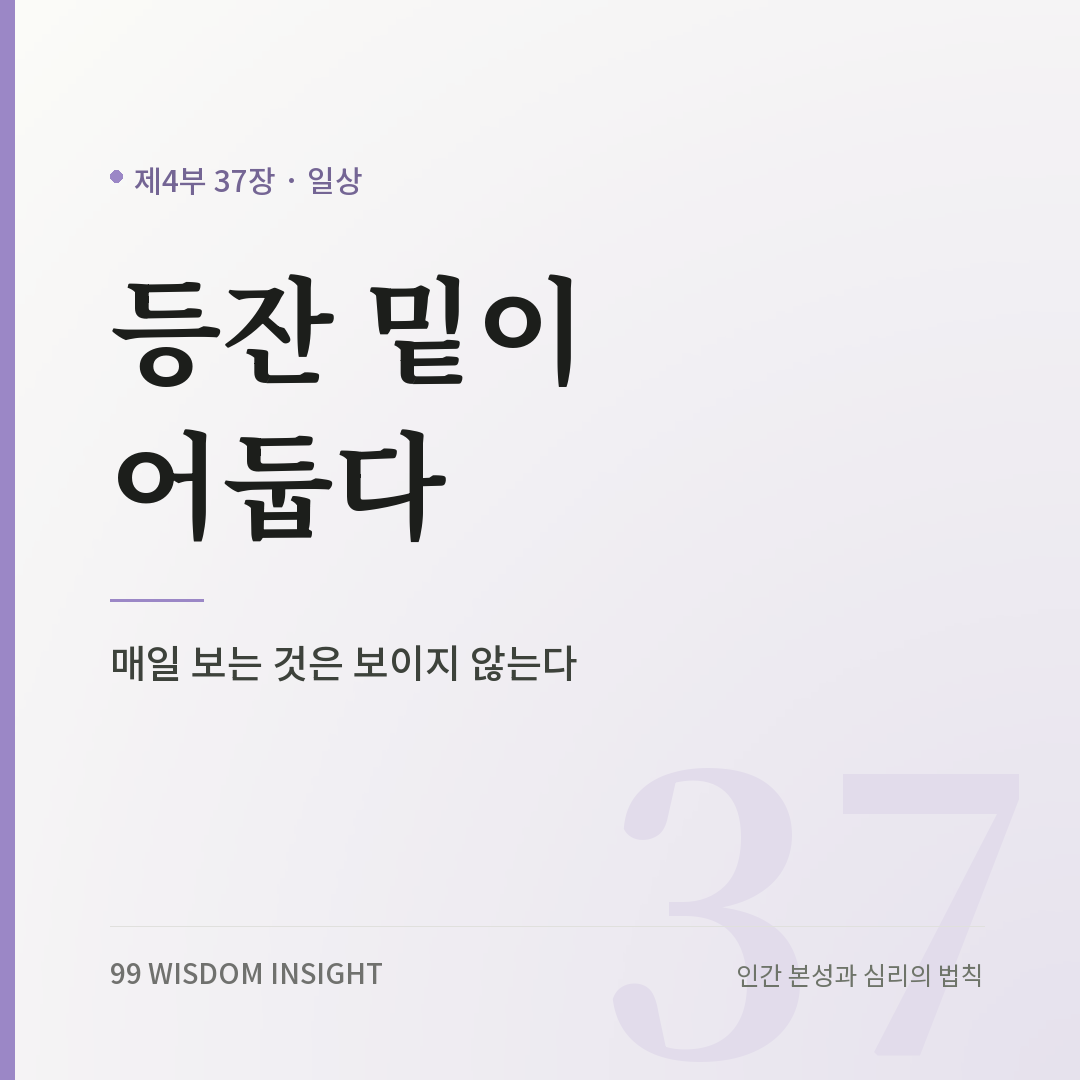
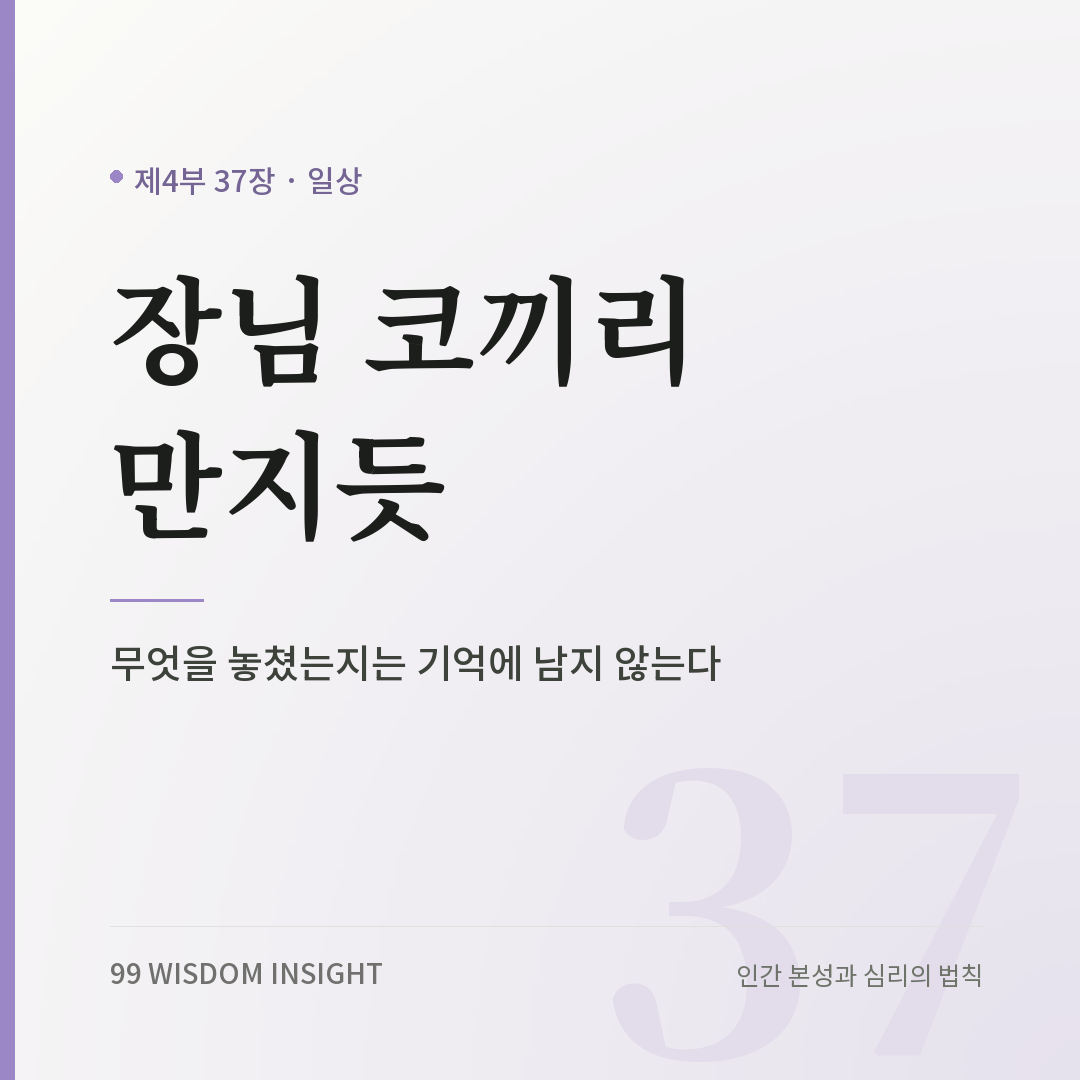
37장 속담 교체: 등잔 밑이 어둡다 → 장님 코끼리 만지듯
81장과 속담이 겹쳐 있었다. 37장의 인지적 사각지대 내용은
등잔 밑보다 이 비유에 더 정확히 맞고, 81장은 파랑새와 행복을
온전히 다룰 수 있게 된다. 원전에서 그들이 합치지 못하고
싸웠다는 사실과, 이야기 안에 전체를 보는 왕이 있다는 구조를
논지의 출발점으로 삼았다. 칼럼 anchor와 카드도 함께 맞췄다.

diff --git a/data/chapters/37.md b/data/chapters/37.md
@@ -1,124 +1,142 @@
 ---
 chapter_id: 37
 part_id: 4
-title: "등잔 밑이 어둡다"
-subtitle: "빛이 만든 그림자, 인지적 사각지대와 익숙함의 함정"
+title: "장님 코끼리 만지듯"
+subtitle: "부분을 쥐고 전체를 확신하는 구조, 선택적 지각과 집단 지성의 조건"
 source: book.html
 extracted_at: 2026-09-22
 ---
 
+## 그들은 합치지 않았다
+
+이 비유는 대개 이렇게 정리된다. 각자 다리와 귀와 꼬리를 만지고 저마다 다른 말을 했으니, 그 말들을 모으면 코끼리가 된다는 것이다.
+
+원전의 결말은 다르다.
+
+가장 이른 형태는 불교 경전에 있다. 팔리어로 전하는 한 경에서, 부처는 서로 다른 교파의 수행자들이 각자 자기 견해만 옳다며 다투는 것을 보고 이 이야기를 꺼낸다.
+
+거기서 사람들은 자기가 만진 것이 코끼리라고 주장하다가 끝내 주먹다짐을 한다. 합치는 장면이 없다.
+
+비유의 요점도 다르다. 부분만 안다는 것이 아니라, **부분만 쥐고도 전체를 안다고 확신하며 싸운다**는 것이었다.
+
+덧붙이면, 흔히 알려진 여섯 사람이라는 숫자와 배경은 19세기 후반 미국 시인의 시에서 굳어진 것이다. 그 시에서도 마지막 연은 신학 논쟁에 대한 풍자다.
+
+## 이야기 안에는 왕이 있다
+
+원전에는 대개 한 명이 더 등장한다. 사람들을 모아 코끼리를 만지게 하고, 그 광경을 지켜보며 웃는 왕이다.
+
+이 인물이 이 비유의 구조를 정한다.
+
+이야기는 아무도 전체를 못 본다는 말을 하고 있지 않다. 저들은 부분만 쥐고 있고 **나는 전체를 본다**는 말을 하고 있다.
+
+그래서 이 비유를 인용하는 사람은 언제나 왕의 자리에 선다. 서로 다투는 사람들을 내려다보며, 그들이 각자 일부만 만지고 있다고 말한다.
+
+이 장에서 볼 것은 그 자리가 실제로 존재하는가다.
+
+한 가지 덧붙일 것이 있다. 지금은 이 표현 대신 다른 말을 쓰는 것이 보통이다. 그리고 이 비유가 가리키는 것도 눈의 문제가 아니다. **정보가 부분적인 상태**를 말한다. 그 상태는 시력과 무관하게 모두에게 해당한다.
+
 ## 뇌는 보이지 않는 자리를 지어낸다
 
-이 속담이 가리키는 사각지대는 눈 안에도 있다.
+부분만 쥐고 있다는 사실은 눈 안에서도 확인된다.
 
 망막에서 시신경이 빠져나가는 자리에는 시세포가 없다. 그 방향에서 오는 빛은 아예 감지되지 않는다.
 
 그런데 우리는 시야에 구멍이 뚫린 것을 느끼지 못한다. 검은 점으로도 보이지 않는다.
 
-뇌가 그 자리를 주변 무늬로 메우기 때문이다. 줄무늬 앞에 서면 줄무늬로 채우고, 벽지 무늬 앞에 서면 그 무늬로 채운다. 실제로 받은 정보가 아니라 주변에서 추정한 것이다.
+뇌가 그 자리를 주변 무늬로 메우기 때문이다. 줄무늬 앞에 서면 줄무늬로 채우고, 벽지 앞에 서면 그 무늬로 채운다. 실제로 받은 정보가 아니라 주변에서 추정한 것이다.
 
-여기서 이 장의 핵심이 나온다. 사각지대의 진짜 문제는 안 보인다는 것이 아니다. **안 보인다는 사실조차 안 보인다**는 것이다.
+여기서 이 장의 핵심이 나온다. 부분만 만지고 있다는 사실이 손끝에 느껴지지 않는다. **안 보인다는 것조차 안 보인다.**
 
 구멍이 검게 보였다면 우리는 곧바로 알아챘을 것이다.
 
 ## 방사선과 의사가 놓친 것
 
-주의를 한곳에 쏟으면 다른 것이 보이지 않는다는 실험이 있다. 농구공 패스 횟수를 세는 동안 화면을 가로지른 고릴라 복장의 사람을 절반 가까운 참가자가 보지 못했다.
+숙련되면 이 문제가 줄어든다고 기대하기 쉽다. 실험은 반대를 보여 준다.
 
-이 실험은 널리 알려졌고, 흔히 집중력이 약한 사람의 문제로 읽힌다.
+주의를 한곳에 쏟는 동안 다른 것이 보이지 않는다는 것은 잘 알려진 현상이다. 농구공 패스 횟수를 세는 동안 화면을 가로지른 고릴라 복장의 사람을 절반 가까운 참가자가 보지 못했다.
 
-이어진 연구가 그 해석을 막는다.
+이어진 연구가 이것을 전문가에게 적용했다.
 
-연구진은 폐 결절을 찾는 컴퓨터 단층촬영 영상에 고릴라 그림을 넣었다. 실제 결절보다 훨씬 크게 넣었다. 그리고 경력 있는 방사선과 의사들에게 평소처럼 판독하게 했다.
+연구진은 폐 결절을 찾는 단층촬영 영상에 고릴라 그림을 넣었다. 실제 결절보다 훨씬 크게 넣었다. 그리고 경력 있는 방사선과 의사들에게 평소처럼 판독하게 했다.
 
 여든세 퍼센트가 보지 못했다.
 
 시선 추적 장치에는 다수가 그 부분을 실제로 쳐다본 기록이 남아 있었다. 눈은 갔는데 보고되지 않았다.
 
-**숙련될수록 찾는 것을 더 잘 찾고, 찾지 않는 것은 더 못 본다.** 전문성은 사각지대를 없애는 것이 아니라 위치를 옮긴다.
+**숙련될수록 찾는 것을 더 잘 찾고, 찾지 않는 것은 더 못 본다.** 전문성은 만지는 부위를 정확하게 만들지만, 만지는 부위를 늘리지는 않는다.
+
+## 어느 부서에서 왔는가
+
+같은 일이 조직에서 일어나는 것을 측정한 연구가 있다.
+
+1958년, 한 회사의 중간 관리자 스물세 명에게 동일한 사례 자료를 주고 회사가 직면한 가장 중요한 문제를 하나 꼽게 했다.
+
+영업 부서 출신은 대부분 영업 문제를 꼽았다. 생산 부서 출신은 생산 문제를 꼽았다. 회계 쪽은 회계 문제를 꼽았다.
+
+같은 자료였다.
+
+이 연구는 표본이 작고 이후 재현에서 결과가 엇갈려, 효과의 크기를 두고는 논쟁이 있다.
+
+다만 짚는 지점은 남는다. 각자 만진 부위는 우연이 아니다. **어디에 배치됐는가가 무엇을 만질지를 정한다.** 그리고 배치된 사람은 그것을 자기 판단으로 느낀다.
 
 ## 아는 사람은 모르는 상태를 상상하지 못한다
 
-가장 가까운 사각지대는 내가 이미 아는 것 쪽에 생긴다.
+부분을 쥔 사람들이 왜 합치지 못하는지에 대한 단서가 하나 더 있다.
 
-1990년에 이루어진 간단한 실험이 이것을 보여 준다.
-
-한 사람에게 널리 알려진 노래를 정하게 하고 책상을 두드려 박자를 내게 했다. 그리고 상대가 그 노래를 맞힐 확률을 예측하게 했다.
+1990년의 간단한 실험이다. 한 사람에게 널리 알려진 노래를 정하게 하고 책상을 두드려 박자를 내게 했다. 그리고 상대가 맞힐 확률을 예측하게 했다.
 
 두드린 사람들의 예측은 평균 오십 퍼센트였다. 실제 정답률은 이 점 오 퍼센트였다.
 
 두드리는 사람의 머릿속에서는 멜로디가 함께 흐른다. 그래서 자기가 내는 소리가 얼마나 앙상한지 상상할 수 없다.
 
-설명이 통하지 않을 때 대개 이 일이 벌어진다. 말이 부족한 것이 아니라, **아는 상태에서 모르는 상태를 되돌려 상상하는 것이 잘 안 되는 것**이다.
+코끼리 다리를 만진 사람에게는 기둥 같다는 말이 충분한 설명으로 느껴진다. 듣는 쪽에는 그렇지 않다.
 
-이 사각지대는 익숙할수록 커진다. 오래 한 일일수록 남에게 설명하기 어려워지는 이유가 여기 있다.
+원전에서 그들이 싸운 이유가 여기 있을 것이다. 각자 자기 설명이 명백하다고 느꼈다.
 
-## 마지노선은 뚫리지 않았다
+## 합치면 되는가
 
-방심한 곳에서 무너진 사례로 자주 인용되는 것이 1940년의 프랑스다. 요새선에만 신경 쓰다가 숲으로 뚫렸다는 이야기다.
+그렇다면 부분을 모으면 전체가 되는가. 조건이 있다.
 
-몇 군데를 고쳐야 한다.
+1907년에 한 통계학자가 가축 품평회에서 황소의 무게를 맞히는 행사의 응모용지를 수거해 분석했다. 칠백여 명의 추정치를 모아 중앙값을 냈더니 실제 무게와 거의 일치했다. 개별 응모자 대부분보다 정확했다.
 
-먼저 그 요새선은 정면으로 돌파되지 않았다. 애초에 그 목적이 아니었다. 국경 일부를 막아 침공로를 북쪽으로 몰고, 그쪽에서 기동 부대로 맞선다는 구상이었다. 요새는 설계대로 작동했다.
+이 사례가 집단 판단의 근거로 자주 인용된다.
 
-숲을 몰랐다는 것도 정확하지 않다. 프랑스 군 지휘부는 그 지역을 검토했고, 통과가 불가능하다고 본 것이 아니라 시간이 오래 걸린다고 봤다. 그 사이에 병력을 옮기면 된다는 계산이었다.
+다만 그 행사에는 조건이 하나 있었다. 응모자들이 서로의 답을 보지 못했다.
 
-실제로 어긋난 것은 속도였다. 독일군은 예상보다 훨씬 빨리 통과했고, 프랑스군의 명령 전달과 부대 이동은 그 속도를 따라가지 못했다.
+이 조건을 조작한 실험이 있다. 참가자들에게 여러 문제의 답을 추정하게 하면서, 한 조건에서는 다른 사람들의 답을 보여 줬다.
 
-그러니 이 사례의 교훈은 사각지대를 못 봤다는 쪽이 아니다. **봤고, 대응 계획도 있었는데, 그 계획이 전제한 시간이 틀렸다.**
+답을 보여 주자 참가자들의 추정치가 서로 가까워졌다. 그런데 정확도는 나아지지 않았다. 답들이 한쪽으로 모이면서 집단의 중앙값이 오히려 정답에서 멀어지는 경우도 나왔다.
 
-실제 실패는 대개 이런 모양이다. 위험을 몰라서가 아니라, 알고 세운 대비가 어떤 숫자를 전제하고 있었는지를 잊어서 생긴다.
+의견이 모이는 것과 정확해지는 것은 다른 일이었다.
 
-## 가까이 있으면 확인하지 않는다
+그러니 원전의 결말이 비관적이기만 한 것은 아니다. 그들은 서로 이야기했기 때문에 싸웠다. **모으는 방식이 정해져 있지 않으면, 부분을 합치는 것은 자동으로 되지 않는다.**
 
-가까운 관계에서 생기는 사각지대에는 다른 종류의 자료가 있다.
+## 모으는 방식
 
-사람들에게 고마움을 전하는 짧은 편지를 쓰게 한 연구들이 있다. 쓰기 전에, 받는 사람이 얼마나 기뻐할지와 얼마나 어색해할지를 예측하게 했다.
+실제로 쓰이는 방법들은 이 조건을 다루는 형태를 하고 있다.
 
-예측은 일관되게 빗나갔다. 받는 사람의 기쁨은 실제보다 낮게 예측됐고, 어색함은 실제보다 높게 예측됐다.
+하나는 순서를 바꾸는 것이다. 회의에서 의견을 말하기 전에 각자 먼저 종이에 적게 하는 방식이 널리 쓰인다. 먼저 말한 사람 쪽으로 답이 쏠리는 것을 막기 위해서다. 앞의 실험이 가리킨 것이 정확히 그 현상이다.
 
-연구진이 지적한 것은 초점의 차이다. 쓰는 사람은 자기 문장이 어색한지에 신경을 쓴다. 받는 사람은 문장의 완성도가 아니라 그런 편지를 받았다는 사실에 반응한다.
+다른 하나는 질문을 뒤집는 것이다. 계획을 세운 뒤 위험을 묻는 대신, 이 계획이 이미 실패했다고 가정하고 이유를 적게 하는 방식이다. 이미 일어난 일로 두고 원인을 대게 하면 떠올리는 양이 늘어난다는 실험 결과에 근거한 것이다.
 
-이 어긋남이 결과를 만든다. 반응을 낮게 예측하니 보내지 않게 되고, 보내지 않으니 예측을 고칠 기회도 없다.
+세 번째는 점검표다. 항공과 수술실에서 쓰이는 목록은 숙련자가 당연히 한다고 여기는 항목을 굳이 소리 내어 확인하게 만든다. 잊어서가 아니라 당연해서 빠지는 것을 막기 위해서다.
 
-앞 장에서 본 결론이 여기서도 나온다. 오래 알았다는 것은 정확도를 올려 주지 않는다. **확인하지 않은 채 추정이 굳을 시간을 줄 뿐이다.**
+세 가지 모두 개인의 시야를 넓히려 하지 않는다. **부분만 만질 수밖에 없다는 것을 전제하고, 합치는 절차를 만들어 둔다.**
 
-## 가장 잘 숨기는 방법
+## 왕의 자리는 비어 있다
 
-1844년에 나온 한 단편에서 경찰은 집 안을 샅샅이 뒤진다. 가구를 분해하고 바닥을 두드리고 책장의 책을 한 권씩 검사한다.
+정리하면 이 비유는 흔히 쓰이는 방향과 조금 다르게 읽힌다.
 
-찾던 편지는 벽난로 위 카드꽂이에 아무렇게나 꽂혀 있었다.
+자주 쓰이는 용법은 상대를 향한다. 당신은 일부만 보고 있다는 말이다.
 
-작가가 이 이야기로 설명한 것은 숨김의 기술이 아니라 수색의 습성이다. 수색하는 쪽은 숨기는 사람의 머리를 자기 기준으로 추정하고, 그 추정의 범위 안에서만 뒤진다.
+원전에서 그 말을 할 수 있는 것은 코끼리를 본 왕뿐이다. 그리고 이 장의 실험들이 가리키는 것은 그 자리가 비어 있다는 사실이다.
 
-정교하게 숨겼을 것이라고 가정하면 정교한 곳만 본다.
+시야에는 원리상 메워진 구멍이 있고, 숙련될수록 찾지 않는 것은 더 못 보고, 무엇을 만질지는 어디에 배치됐는지가 정하고, 아는 사람은 모르는 상태를 되돌려 상상하지 못한다.
 
-이 구조는 문제 해결 전반에 적용된다. 어려운 문제를 만나면 어려운 답을 찾게 되고, 그러는 동안 단순한 답은 검토 목록에서 빠진다.
+그렇다면 남는 것은 두 가지다.
 
-## 등잔은 자기 밑을 비추지 못한다
+내가 만진 부위가 어디인지 말할 수 있어야 한다. 기둥 같다고 말하는 것과, 다리를 만졌는데 기둥 같다고 말하는 것은 듣는 쪽에서 전혀 다른 정보다.
 
-여기까지의 사례에는 공통점이 있다.
+그리고 서로 이야기하기 전에 각자의 것을 먼저 기록해 두어야 한다. 이야기부터 시작하면 대개 목소리가 큰 부위가 코끼리가 된다.
 
-망막의 구멍은 뇌가 메워서 안 보이고, 판독하는 의사는 찾는 것에 집중해서 안 보이고, 아는 사람은 모르는 상태를 상상하지 못해서 안 보인다.
-
-전부 결함이 아니라 **잘 작동하는 장치의 대가**다. 뇌가 시야를 메우지 않으면 세상이 얼룩져 보이고, 집중하지 않으면 결절도 못 찾는다.
-
-그래서 사각지대는 노력으로 줄지 않는다. 더 열심히 보겠다는 다짐은 이미 보고 있는 쪽을 더 볼 뿐이다.
-
-## 밖에서 들어오는 빛
-
-등잔이 자기 밑을 비출 수 없다면 방법은 하나뿐이다. 다른 곳에서 빛이 들어와야 한다.
-
-실제로 쓰이는 방식들이 그 형태다.
-
-항공과 의료에서 도입된 점검표는 숙련자가 당연히 한다고 여기는 항목을 굳이 소리 내어 확인하게 만든다. 잊어서가 아니라 당연해서 빠지는 것을 막기 위해서다.
-
-새로 온 사람의 질문이 오래된 조직에서 값을 갖는 것도 같은 이유다. 그들만 아직 그것을 배경으로 처리하지 않았다.
-
-그리고 가장 값싼 방법은 앞의 편지 연구가 가리킨 쪽이다. 추정한 채로 두지 말고 물어보는 것이다.
-
-등잔 밑이 어둡다는 말은 흔히 가까운 것의 소중함을 놓친다는 뜻으로 읽힌다.
-
-한 겹 더 들어가면 다른 말이 된다. 내가 무엇을 못 보고 있는지는 원리상 나에게 보이지 않는다. 그것을 알려 줄 수 있는 것은 나를 바깥에서 보는 사람뿐이다.
-
-그래서 이 속담이 실제로 요구하는 것은 반성이 아니라 **다른 눈을 들여놓는 일**이다.
+코끼리를 본 사람은 없었다. 그 사실을 아는 상태에서만 합칠 수 있다.
